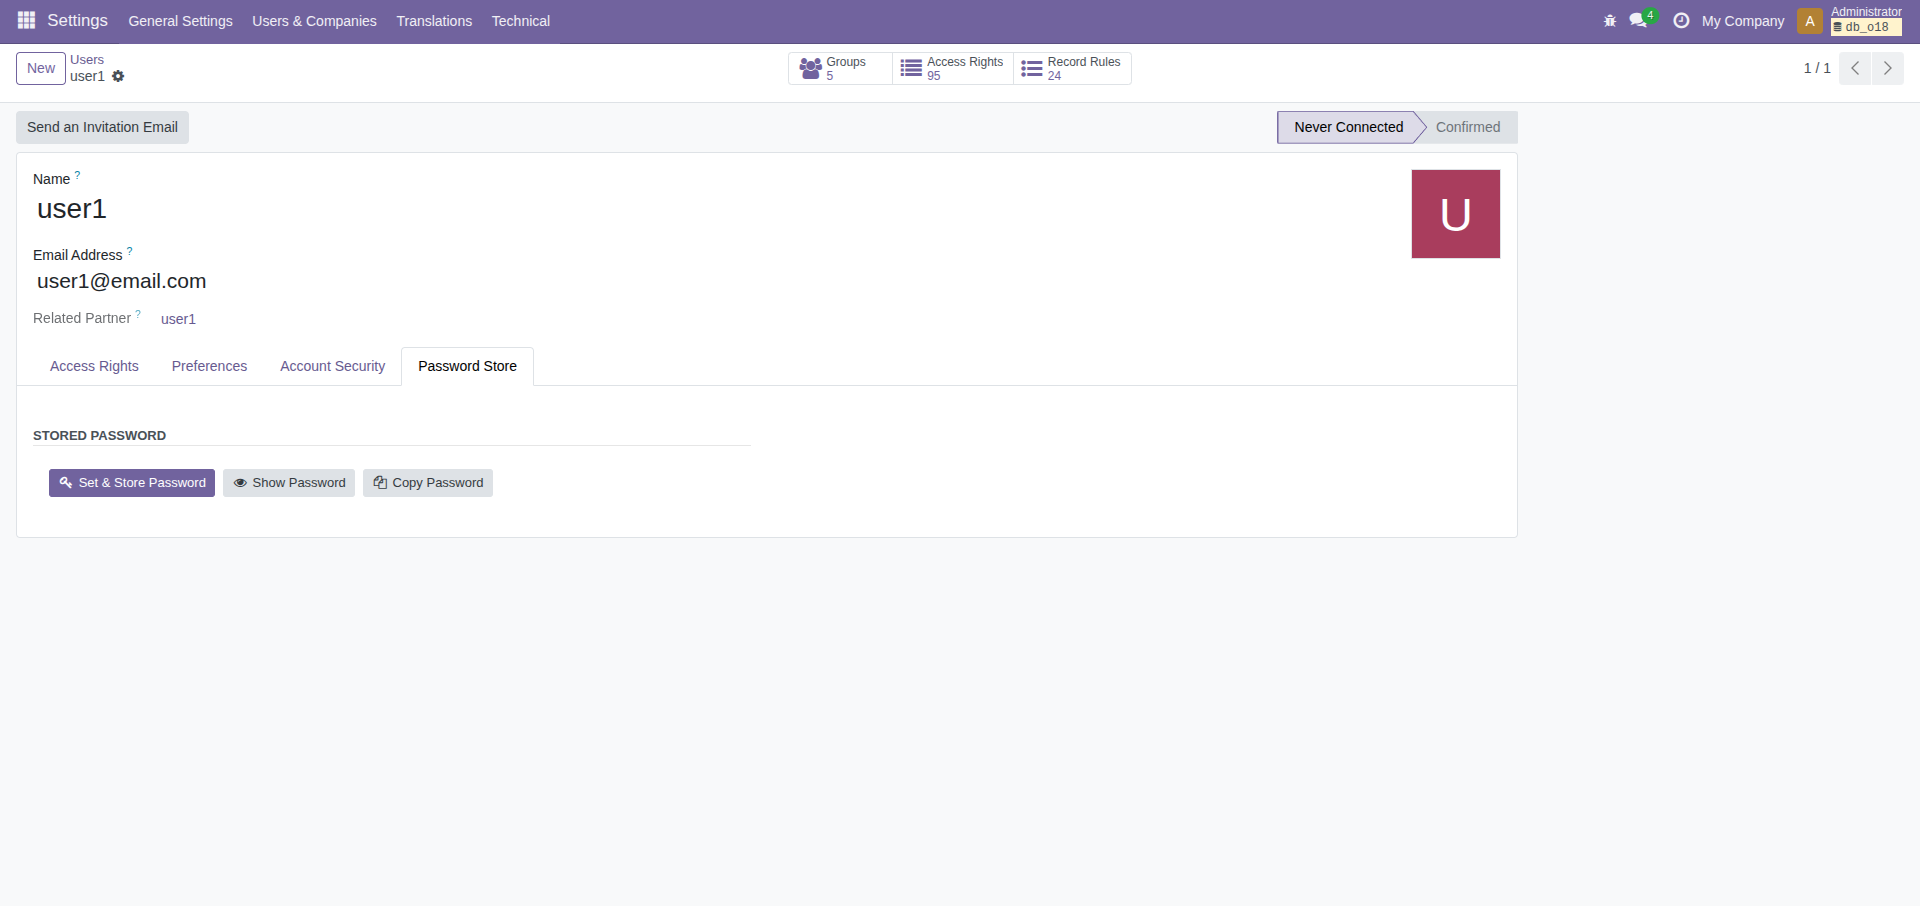
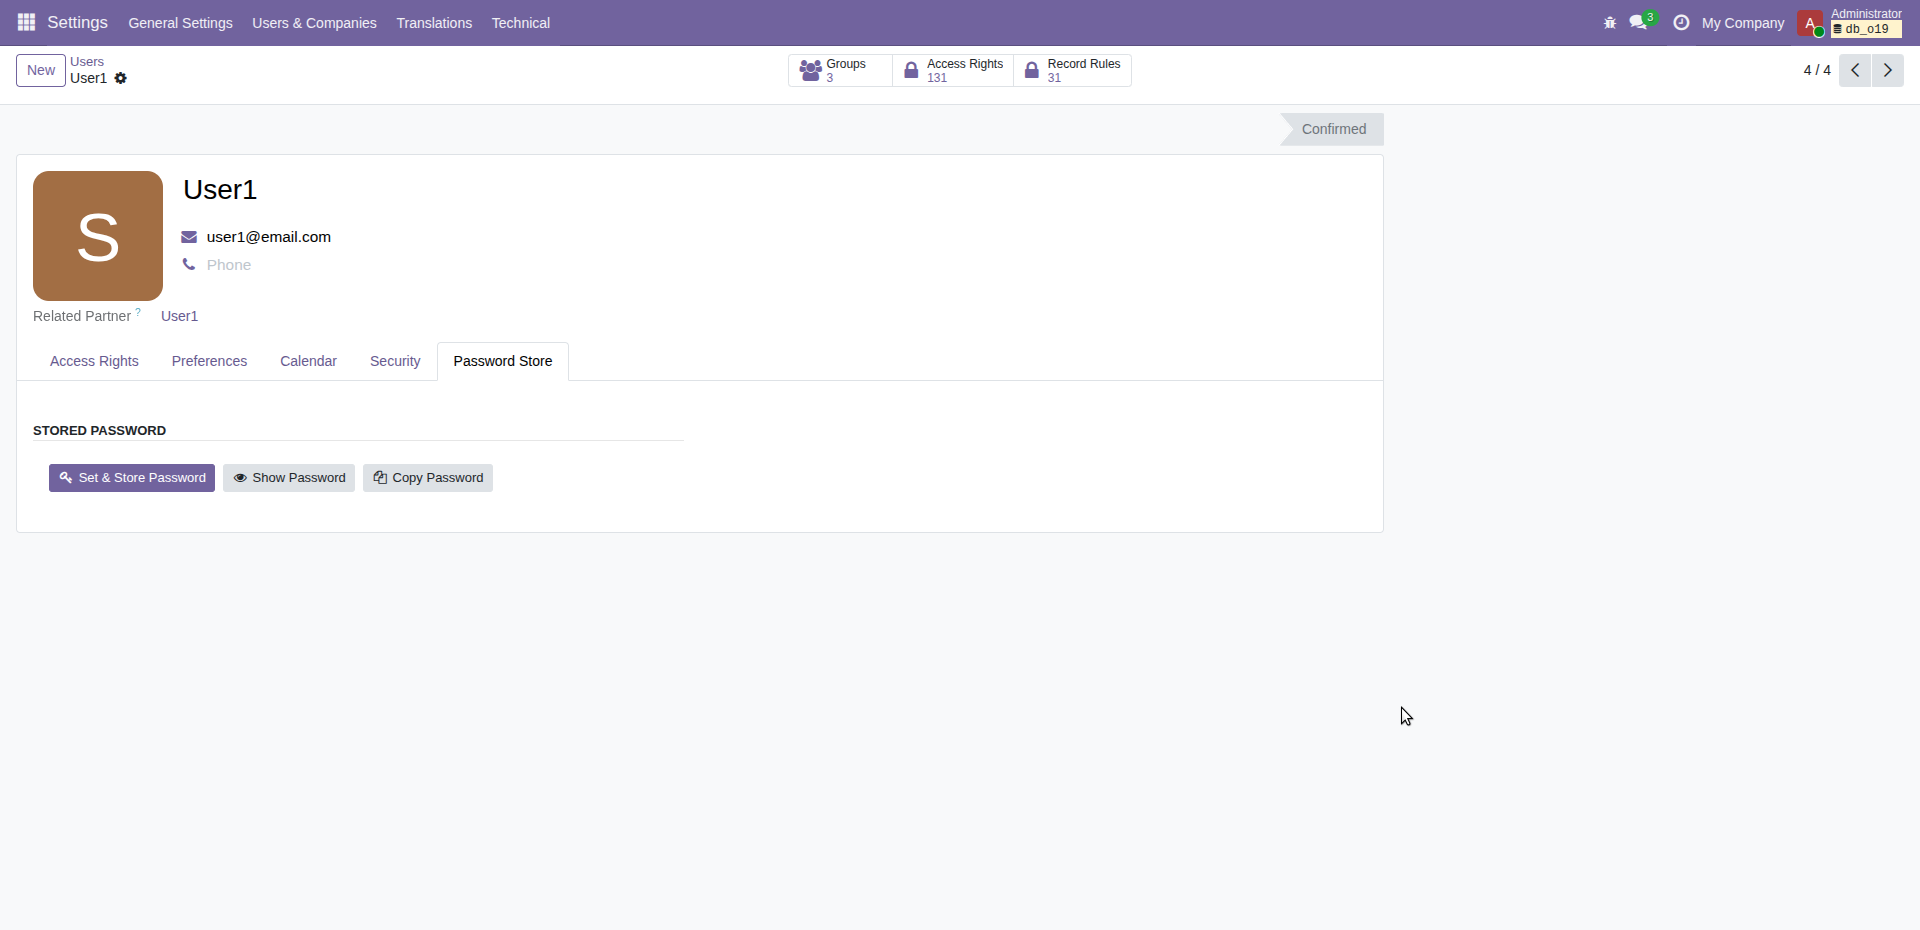
[IMP] password_manager_store: sync for Odoo 19.0

diff --git a/password_manager_store/static/description/index.html b/password_manager_store/static/description/index.html
@@ -13,7 +13,7 @@
             <div class="d-flex flex-wrap align-items-center gap-2 mb-2">
                 <h2 class="mb-0 fw-bold" style="color: #212529;">Password Manager Store</h2>
                 <span class="badge rounded-pill" style="background-color: #714B67; color: #FFFFFF; font-size: 0.8rem; padding: 6px 12px;">
-                    <i class="fa fa-bolt me-1"></i>Odoo 18 CE &amp; EE
+                    <i class="fa fa-bolt me-1"></i>Odoo 19 CE &amp; EE
                 </span>
                 <span class="badge rounded-pill" style="background-color: #059669; color: #FFFFFF; font-size: 0.8rem; padding: 6px 12px;">
                     <i class="fa fa-lock me-1"></i>Fernet AES-128-CBC
@@ -304,7 +304,7 @@
         </div>
         <div class="small">
             <span class="badge bg-secondary">On-Premise Only</span>
-            <span class="badge bg-secondary ms-1">Odoo 18 CE &amp; EE</span>
+            <span class="badge bg-secondary ms-1">Odoo 19 CE &amp; EE</span>
             <span class="badge bg-primary ms-1">NIITS Inovasi Teknologi</span>
         </div>
     </div>

diff --git a/password_manager_store/models/res_users.py b/password_manager_store/models/res_users.py
@@ -8,13 +8,9 @@ with the *Password Store Administrator* group can later reveal or copy the
 stored password without resetting it.
 """
 
-import logging
-
 from odoo import _, api, fields, models
 
 from . import crypto
-
-_logger = logging.getLogger(__name__)
 
 
 class ResUsers(models.Model):
@@ -62,12 +58,9 @@ class ResUsers(models.Model):
         records = super().create(vals_list)
         for rec, plaintext in zip(records, plaintexts):
             if plaintext:
-                try:
-                    rec.password_encrypted = crypto.encrypt_value(self.env, plaintext)
-                    self.env['password.store.access.log']._log_user_password(
-                        rec, 'user_write')
-                except Exception as e:
-                    _logger.warning("Password Manager Store: could not encrypt password for %s: %s", rec.login, e)
+                rec.password_encrypted = crypto.encrypt_value(self.env, plaintext)
+                self.env['password.store.access.log']._log_user_password(
+                    rec, 'user_write')
         return records
 
     def write(self, vals):
@@ -75,13 +68,10 @@ class ResUsers(models.Model):
         result = super().write(vals)
         if plaintext:
             for rec in self:
-                try:
-                    rec.password_encrypted = crypto.encrypt_value(
-                        self.env, plaintext)
-                    self.env['password.store.access.log']._log_user_password(
-                        rec, 'user_write')
-                except Exception as e:
-                    _logger.warning("Password Manager Store: could not encrypt password for %s: %s", rec.login, e)
+                rec.password_encrypted = crypto.encrypt_value(
+                    self.env, plaintext)
+                self.env['password.store.access.log']._log_user_password(
+                    rec, 'user_write')
         return result
 
     # ------------------------------------------------------------------ #

diff --git a/password_manager_store/README.md b/password_manager_store/README.md
@@ -1,7 +1,7 @@
-# Password Manager Store for Odoo 18
+# Password Manager Store for Odoo 19
 
-[![Odoo Version](https://img.shields.io/badge/Odoo-18.0-714B67.svg?style=flat-square)](https://www.odoo.com)
-[![License](https://img.shields.io/badge/License-OPL--1-059669.svg?style=flat-square)](https://www.odoo.com/documentation/18.0/legal/licenses.html)
+[![Odoo Version](https://img.shields.io/badge/Odoo-19.0-714B67.svg?style=flat-square)](https://www.odoo.com)
+[![License](https://img.shields.io/badge/License-OPL--1-059669.svg?style=flat-square)](https://www.odoo.com/documentation/19.0/legal/licenses.html)
 [![Price](https://img.shields.io/badge/Price-%2415%20USD-0284C7.svg?style=flat-square)](https://apps.odoo.com)
 [![Security](https://img.shields.io/badge/Security-Fernet%20AES--128--CBC-DC2626.svg?style=flat-square)](https://cryptography.io/en/latest/fernet/)
 
@@ -31,7 +31,7 @@ All access is restricted to authorized administrators with a tamper-proof audit 
 
 | Feature | Details |
 |---|---|
-| **Odoo Editions** | Odoo 18.0 Community Edition (CE) & Enterprise Edition (EE) |
+| **Odoo Editions** | Odoo 19.0 Community Edition (CE) & Enterprise Edition (EE) |
 | **Hosting Model** | On-Premise, Dedicated Server, Private Cloud (Docker / Kubernetes / VMs) |
 | **Unsupported** | Odoo Online (SaaS) and Odoo.sh (requires direct write access to `odoo.conf`) |
 | **Dependencies** | Odoo core modules `base`, `mail`, and Python library `cryptography` |
